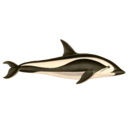
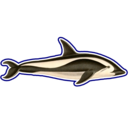
convert hourglass-dolphin.png -trim \( +clone -background black -shadow 90x20+0+0 \) +swap -background none -layers merge +repage \( +clone -background black -shadow 90x20+0+0 \) +swap -background none -layers merge +repage -flop -background none -resize 129x129 -gravity center ../images/navbar.png
and add the icon to the navbar

Changed region(s): [[0.0, 0.2791, 0.9922, 0.6822]]

diff --git a/app/javascript/components/common/navbar/index.tsx b/app/javascript/components/common/navbar/index.tsx
@@ -9,6 +9,7 @@ import { Link } from 'react-router-dom';
 import { graphql, useQuery, useMutation } from 'relay-hooks';
 import { AlertContext } from '@hourglass/common/alerts';
 import NotLoggedIn from './NotLoggedIn';
+import NavbarLogo from '../../../images/navbar.png';
 
 import { navbarQuery } from './__generated__/navbarQuery.graphql';
 
@@ -69,8 +70,9 @@ const RN: React.FC<{
       className={className}
     >
       <Navbar.Brand>
-        <Link to="/">
-          Hourglass
+        <Link to="/" className="d-inline-flex align-items-center">
+          <img src={NavbarLogo} alt="Hourglass" className="px-2 d-inline-block" style={{ height: 30 }} />
+          <span className="d-inline-block">Hourglass</span>
         </Link>
       </Navbar.Brand>
       <Navbar.Toggle />
